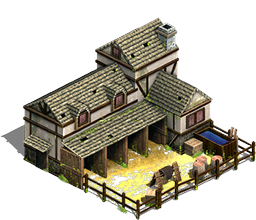
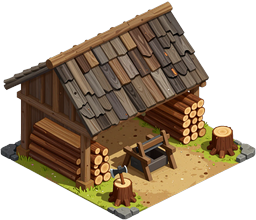
Regenerate economy camp sprites as project-original art
- Replace lumber camp's reused stable sprite with a dedicated sawmill camp
- Regenerate mill and mining camp with distinct water wheel and mine adit designs
- Remove building.lumber-camp from the OpenGameArt manifest and pin the three camps as legacy
- Update HP_BAR_Y offsets, cache-bust versions, and asset lock hashes for the new PNGs

diff --git a/apps/client/src/game/render/assetManifest.test.ts b/apps/client/src/game/render/assetManifest.test.ts
@@ -95,8 +95,12 @@ describe('building health bar heights', () => {
     'building.barracks': 'BARRACKS',
     'building.stable': 'STABLE',
     'building.archery-range': 'ARCHERY_RANGE',
-    'building.house': 'HOUSE',
-    'building.lumber-camp': 'LUMBER_CAMP'
+    'building.house': 'HOUSE'
+    // The three economy camps (LUMBER_CAMP, MILL, MINING_CAMP) are
+    // project-original generated art pinned as `legacy` in the lock, so there is
+    // no measured `topInset` entry here to recompute their bars from; their
+    // `HP_BAR_Y` numbers are measured from the shipped 256x220 PNGs by
+    // `scripts/generate_buildings_assets.py`.
   };
   // `HP_BAR_Y` is hand-maintained, but its value is derivable: the bar sits 8 px
   // above the first visible row of art. Recomputing it from the lock means a

diff --git a/apps/client/src/game/scenes/WorldScene.ts b/apps/client/src/game/scenes/WorldScene.ts
@@ -526,9 +526,10 @@ export class WorldScene extends Phaser.Scene {
     }
 
     // Preload generated building assets with cache-busting version (2x resolution)
-    // v=26: house door rotated to face East (South-East / road) with feudal palette matching.
+    // v=27: the three economy camps (lumber camp, mill, mining camp) were
+    // regenerated so the lumber camp no longer reuses the stable sprite.
     // Bump the key whenever a PNG under public/assets/buildings or /resources changes.
-    const v = 'v=26';
+    const v = 'v=27';
     this.load.image('building_TOWN_CENTER', `/assets/buildings/town_center.png?${v}`);
     this.load.image('building_BARRACKS', `/assets/buildings/barracks.png?${v}`);
     // MIL-01: both military branches now ship their own 400x320 sheet. The

diff --git a/apps/client/src/components/buildingThumbnails.ts b/apps/client/src/components/buildingThumbnails.ts
@@ -21,9 +21,9 @@ export const BUILDING_THUMBNAIL: Partial<Record<BuildingType, string>> = {
   HOUSE: '/assets/buildings/house.png?v=15',
   FARM: '/assets/buildings/farm.png?v=3',
   TOWER: '/assets/buildings/tower.png?v=4',
-  LUMBER_CAMP: '/assets/buildings/lumber_camp.png?v=1',
-  MILL: '/assets/buildings/mill.png?v=1',
-  MINING_CAMP: '/assets/buildings/mining_camp.png?v=1',
+  LUMBER_CAMP: '/assets/buildings/lumber_camp.png?v=2',
+  MILL: '/assets/buildings/mill.png?v=2',
+  MINING_CAMP: '/assets/buildings/mining_camp.png?v=2',
   PORTAL: '/assets/buildings/portal.png?v=3'
 };
 

diff --git a/apps/client/src/game/render/buildingArt.ts b/apps/client/src/game/render/buildingArt.ts
@@ -138,9 +138,10 @@ const HP_BAR_Y: Partial<Record<BuildingType, number>> = {
   ARCHERY_RANGE: -235,
   HOUSE: -224,
   FARM: -100,
-  LUMBER_CAMP: -171,
-  MILL: -190,
-  MINING_CAMP: -190,
+  // ECO: generated camps on the 256x220 house canvas. -70 - 220/2 + topInset - 8.
+  LUMBER_CAMP: -187,
+  MILL: -188,
+  MINING_CAMP: -188,
   // Gate: the bar follows the scaled art's top edge, not the sheet rectangle.
   PORTAL: PORTAL_HP_BAR_Y
 };

diff --git a/scripts/generate_buildings_assets.py b/scripts/generate_buildings_assets.py
@@ -98,6 +98,59 @@ BUILDING_SPECS = [
             "Solid pure white background, clean sharp silhouette, game asset ready --ar 2:1 --v 6.0 --style raw"
         ),
     },
+    # The three economy drop-off camps are project-original art, so they have no
+    # OpenGameArt source to migrate into `manifest.json`. They ship on the same
+    # 256x220 canvas as the house, which is why the renderer lifts them all by
+    # `SHEET_OFFSET_Y` -70. Keep that canvas: a different height would need a new
+    # lift and health-bar number in `buildingArt.ts`.
+    #
+    # Each prompt names the single prop that identifies the building (log piles,
+    # a water wheel, a mine adit) because a generic "medieval house" prompt makes
+    # them read as recolours of the house or of each other.
+    {
+        "id": "lumber_camp",
+        "target_w": 256,
+        "target_h": 220,
+        "gen_w": 1024,
+        "gen_h": 1024,
+        "prompt": (
+            "A 2D game asset of a medieval European lumberjack sawmill camp, 2.5D isometric top-down 45-degree view. "
+            "Open-sided timber workshop with a weathered wooden shingle roof, tall stacks of cut logs and sawn planks, "
+            "a two-man pit saw frame over a saw pit, an axe stuck in a chopping stump, small packed-dirt yard with stone edging. "
+            "Grey-brown timber and no masonry house walls, clearly a woodcutting camp rather than a cottage. "
+            "No ground shadow. Solid pure white background, clean sharp silhouette, game asset ready"
+        ),
+    },
+    {
+        "id": "mill",
+        "target_w": 256,
+        "target_h": 220,
+        "gen_w": 1024,
+        "gen_h": 1024,
+        "prompt": (
+            "A 2D game asset of a medieval European water mill, 2.5D isometric top-down 45-degree view. "
+            "Small stone and timber mill house beside a wooden water flume, one huge vertical wooden water wheel on the side "
+            "with visible spokes and paddles, a turning axle into the wall, burlap flour sacks and grain sacks stacked by the door, "
+            "a small handcart. Warm tan stone base, dark timber frame, slate shingle roof. Clearly a mill, not a cottage. "
+            "No ground shadow. Solid pure white background, clean sharp silhouette, game asset ready"
+        ),
+    },
+    {
+        "id": "mining_camp",
+        "target_w": 256,
+        "target_h": 220,
+        "gen_w": 1024,
+        "gen_h": 1024,
+        "prompt": (
+            "A 2D game asset of a medieval European mining camp, 2.5D isometric top-down 45-degree view. "
+            "Compact rocky outcrop built up tall with a timber-framed mine tunnel entrance at its foot, "
+            "a wooden headframe winch over the shaft on top, one small ore cart on short wooden rails in front, "
+            "crates of grey ore stacked beside the adit, pickaxes leaning on a crate. "
+            "Grey stone and brown timber, open mine workings instead of house walls, clearly a mine. "
+            "Centred compact square composition, tall as it is wide. "
+            "No ground shadow. Solid pure white background, clean sharp silhouette, game asset ready"
+        ),
+    },
     # MIL-01's stable and archery range, and the watch tower, used to be
     # generated here. They now ship from OpenGameArt packs via
     # `scripts/assets/manifest.json` (`building.stable`, `building.archery-range`,
@@ -187,7 +240,7 @@ def parse_args() -> argparse.Namespace:
     parser.add_argument(
         "--all",
         action="store_true",
-        help="regenerate every spec, including the five older buildings whose PNGs were replaced by the OpenGameArt pipeline",
+        help="regenerate every spec; this overwrites the OpenGameArt town centre, barracks and house sheets, so prefer --only",
     )
     parser.add_argument("--steps", type=int, default=8, help="sampling steps (default: 8)")
     parser.add_argument("--seed", type=int, default=None, help="optional seed for a reproducible render")
@@ -211,9 +264,10 @@ def main() -> None:
     if args.only and args.all:
         raise SystemExit("pass either --only <ids> or --all, not both")
     if not args.only and not args.all:
-        # Five of the specs predate the OpenGameArt replacement and target half
-        # the shipped resolution. Running them by accident would overwrite the
-        # licensed art, so regenerating everything is an explicit choice.
+        # Three specs (town_center, barracks, house) are superseded by licensed
+        # OpenGameArt sources in `scripts/assets/manifest.json`, and running them
+        # would overwrite that art with a lower-resolution render. Making a full
+        # run an explicit `--all` keeps an accidental invocation from doing it.
         ids = ", ".join(spec["id"] for spec in BUILDING_SPECS)
         raise SystemExit(f"pass --only <ids> or --all; ids: {ids}")
     wanted = {part.strip() for part in args.only.split(",")} if args.only else None

diff --git a/scripts/assets/build.py b/scripts/assets/build.py
@@ -53,6 +53,14 @@ GENERATED_PATHS = frozenset(
         "apps/client/public/assets/terrain/road_stamp_1.png",
         "apps/client/public/assets/terrain/road_stamp_2.png",
         "apps/client/public/assets/terrain/road_stamp_3.png",
+        # The citadel stone is project-original too; `scripts/generate_citadel_assets.py`
+        # and `scripts/process_citadel_assets.py` own it, and the processor's
+        # `--check` verifies canvas, anchoring, luminance and the gate arch.
+        "apps/client/public/assets/citadel/floor.png",
+        "apps/client/public/assets/citadel/wall.png",
+        "apps/client/public/assets/citadel/gate.png",
+        "apps/client/public/assets/citadel/gate_door.png",
+        "apps/client/public/assets/citadel/tc_platform.png",
     }
 )
 

diff --git a/scripts/assets/README.md b/scripts/assets/README.md
@@ -75,10 +75,11 @@ re-pins them).
   `sourceSha256` and the license/author for every file. Hashes are of the PNG
   bytes, so a different Pillow build may need a rebuild (same pixels, new bytes).
 - `legacy` in the lock pins the PNGs no target builds (terrain, gold/stone/berry,
-  farm/mill/mining camp/tower, units, cursors, icons). They have no upstream to
+  farm/lumber camp/mill/mining camp/tower, units, cursors, icons). They have no upstream to
   rebuild from, so they are hash-only: a hand edit or a stray regeneration fails
-  `--check` instead of shipping silently. The generated gate and road stamps are
-  excluded because another script rebuilds them (see below).
+  `--check` instead of shipping silently. The generated gate, road stamps and
+  citadel stone are excluded because other scripts rebuild and check them (see
+  below).
 
 ## Generated art (not third-party)
 
@@ -101,6 +102,22 @@ were previously project-original generated art; they are now built from
 OpenGameArt packs by `building.stable`, `building.archery-range` and
 `building.tower` in the manifest. `scripts/generate_buildings_assets.py` no
 longer defines them, so running it cannot overwrite the shipped sprites.
+
+The three economy drop-off camps are the exception. `buildings/lumber_camp.png`
+used to be rebuilt from the stable source (`building.lumber-camp`), which made it
+a scaled-down copy of `stable.png`; `mill.png` and `mining_camp.png` were
+unmigrated AI art. All three are now purpose-generated (sawmill camp, water mill
+with its own wheel, rocky mine adit with a headframe and ore cart) so they no
+longer read as recolours of the house, the stable or each other:
+
+```bash
+python scripts/generate_buildings_assets.py --only lumber_camp,mill,mining_camp
+```
+
+They use the house's 256x220 canvas, stay out of `manifest.json` (no upstream
+URL or license), and are hash-pinned as `legacy` by `build.py --legacy`. Their
+`HP_BAR_Y` values in `buildingArt.ts` are measured from the shipped art, so
+re-running the generator means re-measuring the top inset.
 
 ### Citadel stone
 
@@ -133,8 +150,9 @@ shows up immediately.
 
 ## Not migrated
 
-`terrain/{grass,dirt}*.png`, `resources/{gold,stone,berry}.png`, `buildings/{farm,mill,
-mining_camp}.png`, cavalry, icons and cursors keep their previous art;
+`terrain/{grass,dirt}*.png`, `resources/{gold,stone,berry}.png`,
+`buildings/{farm,lumber_camp,mill,mining_camp}.png`, cavalry, icons and cursors keep
+their project-original art;
 their bytes are pinned under `legacy` in the lock, with the icon provenance
 recorded as unknown. The grassland tileset ships no tile map (its OGA page points
 at the Flare repo, whose current tileset definition maps a different image), and

diff --git a/CREDITS.md b/CREDITS.md
@@ -138,13 +138,11 @@ redrawn.
   kept here for provenance)
 - **Used for:** `assets/buildings/barracks.png` (barracks),
   `assets/buildings/stable.png` (stable), `assets/buildings/archery_range.png`
-  (archery range), `assets/buildings/lumber_camp.png` (stable, reused as the
-  wood drop-off) and `assets/buildings/town_center.png` (castle).
+  (archery range) and `assets/buildings/town_center.png` (castle).
 
-**Changes made.** All five are cropped to alpha, scaled to the client's canvas
-and luminance-matched; the stable is reused as the lumber camp because the pack
-has no dedicated drop-off building, and the castle stands in for the town centre
-because the set has no town-hall building. The castle is also mirrored
+**Changes made.** All four are cropped to alpha, scaled to the client's canvas
+and luminance-matched; the castle stands in for the town centre because the set
+has no town-hall building. The castle is also mirrored
 horizontally so its gate faces the direction the client's isometric camera
 looks from; the other buildings are unmodified apart from crop/scale.
 
